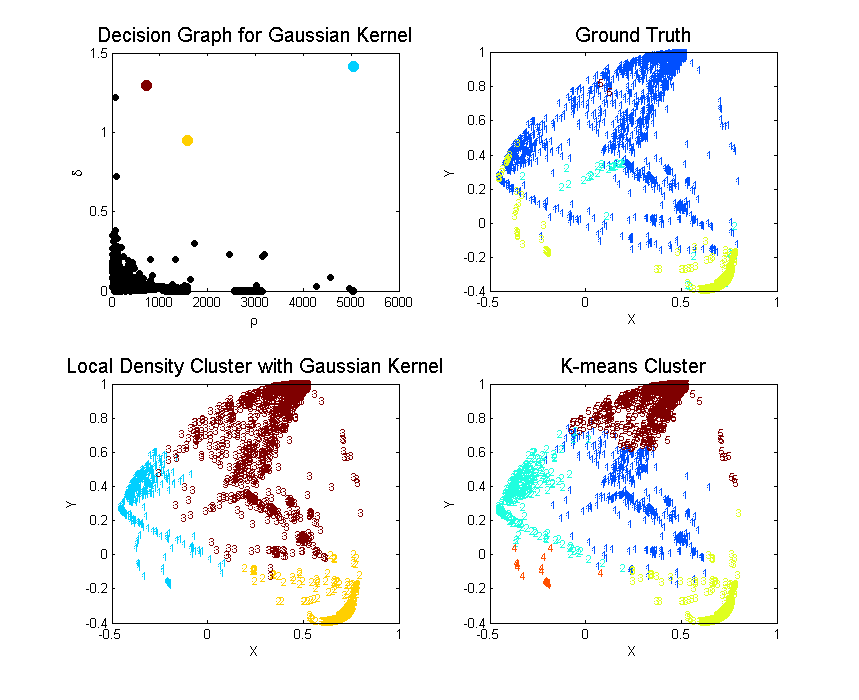
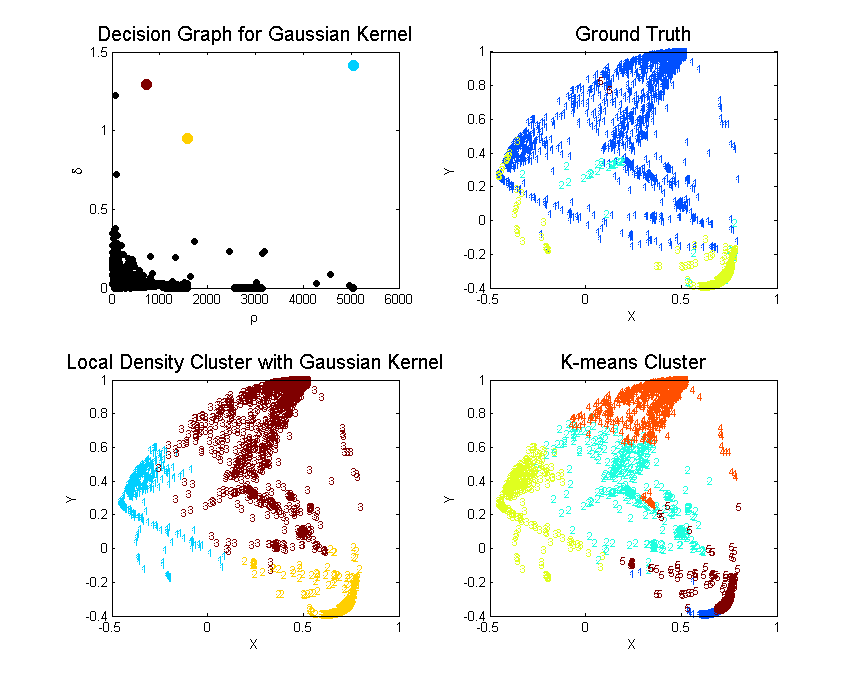
update my post

diff --git a/_posts/2014-08-18-kdd99-cluster.md b/_posts/2014-08-18-kdd99-cluster.md
@@ -14,15 +14,20 @@ I did a comparison between two clustering methods. One method is from a recent s
    - [Local Density](#3.2)
    - [K-means: K = 5](#3.3)
    - [K-means: K = 3](#3.4)
+   - [Compare Result](#3.5)
 
 <!-- /MarkdownTOC -->
 
 
-## Cluster by local density[1]
+<a id = '1'></a>
 
-Rodriguez and Laio hypothesized that cluster centers are recognized as local density maxima that are far away from any points of higher density. Then they defined two metrics $$\rho$$ and $$\delta$$ to measure the cluster's above attributes (local density and distance to another cluster of higher density) and pick the observation that have both larger $$\rho$$ and $$\delta$$ as cluster center. Please refer to [the paper](http://www.sciencemag.org/content/344/6191/1492.abstract) or my previous summary [post](http://yinsenm.github.io/2014/08/04/a-cluster-algorithm-by-local-density/) for details.
+## Cluster by local density
 
-## K-means[2]
+Rodriguez and Laio hypothesized that cluster centers are recognized as local density maxima that are far away from any points of higher density. Then they defined two metrics $$\rho$$ and $$\delta$$ to measure the cluster's above attributes (local density and distance to another cluster of higher density) and pick the observations that have both larger $$\rho$$ and $$\delta$$ as cluster centers. Please refer to [the paper](http://www.sciencemag.org/content/344/6191/1492.abstract) or my previous summary [post](http://yinsenm.github.io/2014/08/04/a-cluster-algorithm-by-local-density/) for details.
+
+<a id = '2'></a>
+
+## K-means
 
 K-means randomly initializes $$K$$ observations as the center cluster. Then it iterates the following assignment and update processes and stops when assignments no longer change or iteration number goes beyond predefined iteration threshold.
 
@@ -74,7 +79,9 @@ $$
 
 ------------
 
-## Comparison on KDD99[3]
+<a id = '3'></a>
+
+## Comparison on KDD99
 
 [KDD99](http://kdd.ics.uci.edu/databases/kddcup99/kddcup99.html) is a network security dataset. I used the [10 percent training subset](http://kdd.ics.uci.edu/databases/kddcup99/kddcup.data_10_percent.gz) which is of dimension $$494021 \times 42$$. I disregarded all categorical variables, since they bring some trouble in my following data visualization. 
 
@@ -88,7 +95,9 @@ idx = randsample(size(M,1), 10000);
 
 For the k-means part, I used `matlab`'s build-in [kmeans](http://www.mathworks.com/help/stats/kmeans.html) function and replicated the algorithm for 1000 times to select the best solution.
 
-### Data Visualization[3.1]
+<a id = '3.1'></a>
+
+### Data Visualization
 
 I used [PCoA](http://en.wikipedia.org/wiki/PCoA) to reconstruct the spacial relationship between different points by their distance matrix $$D$$. In `matlab`, you can realize [PCoA](http://en.wikipedia.org/wiki/PCoA) using [cmdscale](http://www.mathworks.com/help/stats/cmdscale.html), pass the distance matrix $$D$$ to it and it will return a reduced dimension matrix $$Y$$ and $$Y^{T}Y$$'s eigen values. If the first 2 eigen values are comparable larger than the rest, we can safely preserve large information for visualization by the first 2 vectors in matrix $$Y$$ while discarding the minor one. You can also use [mdscale](http://www.mathworks.com/help/stats/mdscale.html) which preforms nonmetric multidimensional scaling on the dissimilarity matrix $$D_{n \times n}$$ (distance matrix is one type of dissimilarity matrix).
 
@@ -121,36 +130,56 @@ Code|Type of attack|Number|Color
 
 ![Cluster Result 1](/figure/kdd99/clusterR1.png)
 
-### Local Density[3.2]
+<a id = '3.2'></a>
+
+### Local Density
+
+![LD Proformance](/figure/kdd99/LD.png)
 
 
-Cluster|Color|Elements|C1|C2|C3|C4|C5|Purity
----|---|---|---|---|---|---|---
-1|Blue|6107|289|1|5817|0|0|0.9525
-2|Yellow|2230|58|48|2124|0|0|0.9525
-3|Red|1663|1637|24|0|0|2|0.9844
+Cluster|Color|Elements|C1|C2|C3|C5|Purity|MDtC
+---|---|---|---|---|---|---|---|---
+1|Blue|6107|289|1|5817|0|0.9525|2.75
+2|Yellow|2230|58|48|2124|0|0.9525|3.24
+3|Red|1663|1637|24|0|2|0.9844|5.11
 **Total**||10K|
 
-### K-means: K = 5[3.3]
+<a id = '3.3'></a>
 
+### K-means: K = 5
 
-Cluster|Color|Elements|C1|C2|C3|C4|C5|Purity
----|---|---|---|---|---|---|---
-1|Blue|644|617|24|3|0|0|0.9581
-2|Green|359|294|1|64|0|0|0.8189
-3|Yellow|2216|47|48|2121|0|0|0.9571
-4|Orange|5757|4|0|5753|0|0|0.9993
-5|Red|1024|1022|0|0|0|2|0.9998
+![K-means K = 5 Proformance](/figure/kdd99/K-means-5.png)
+
+Cluster|Color|Elements|C1|C2|C3|C5|Purity|MDtC
+---|---|---|---|---|---|---|---|---
+1|Blue|1200|2|29|1169|0|0.9742|1.76
+2|Green|561|537|24|0|0|0.9572|4.46
+3|Yellow|6105|287|1|5817|0|0.9528|3.03
+4|Orange|1099|1097|0|0|2|0.9982|3.77
+5|Red|1035|61|19|955|0|0.9227|3.81
 **Total**||10K|
 
 ![Cluster Result 2](/figure/kdd99/clusterR2.png)
 
-### K-means: K = 3[3.4]
+<a id = '3.4'></a>
 
+### K-means: K = 3
 
-Cluster|Color|Elements|C1|C2|C3|C4|C5|Purity
----|---|---|---|---|---|---|---
-1|Blue|1543|1152|19|0|0|2|0.9863
-2|Yellow|2340|168|48|2124|0|0|0.9076
-3|Red|6117|294|6|5817|0|0|0.9510
+![K-means K = 3 Proformance](/figure/kdd99/K-means-3.png)
+
+Cluster|Color|Elements|C1|C2|C3|C5|Purity|MDtC
+---|---|---|---|---|---|---|---|---
+1|Blue|6117|294|6|5817|0|0.9509|3.69
+2|Yellow|1543|1522|19|0|2|0.9864|4.73
+3|Red|2340|168|48|2124|0|0.9077|3.84
 **Total**||10K|
+
+<a id = '3.5'></a>
+
+### Compare Result
+
+Method|Detection Rate|False Positive Rate
+---|---|---
+Local Density|0.99676|0.17490
+K-means K = 5|0.99701|0.72933
+K-means K = 3|0.99738|0.23286
